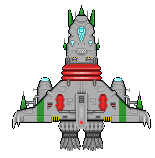
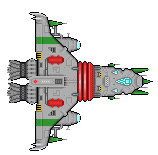
Player ship able to move

diff --git a/src/ofApp.cpp b/src/ofApp.cpp
@@ -5,9 +5,9 @@ void ofApp::setup(){
     // set the size of the window
     ofSetWindowShape(750, 250);
     
-    game_state = START;
-//    player_image.load("ship.png");
-//    player.setup(&player_image);
+    game_state = GAME; //TODO: CHANGE ME BACK TO START
+    player_image.load("ship.png");
+    player.setup(&player_image);
     
     musicDecoder.load("music.mp3");
     currentTrack = new Track(&musicDecoder);
@@ -66,12 +66,8 @@ void ofApp::update(){
     
     for(int i = 0; i < 3; i++){
         if ((d.onsets & (1<<i)) > 0) {
-            ofSetColor(ofColor::red);
             onsetDecay[i] = ((float)(d.onsets & (1<<i)));
-        } else {
-            ofSetColor(255,0,0,onsetDecay[i]*255);
         }
-        ofRect(10,35+13*i,30,10);
     }
 
     // ofDrawBitmapString(Track::toString(d), ofPoint(10,ofGetHeight()-2));
@@ -92,6 +88,7 @@ void ofApp::draw(){
     int wh = ofGetHeight();
         
     // update beat info
+    ofPushStyle();
     ofSetColor(ofColor::black);
     ofDrawBitmapString("Beat", ofPoint(10,10));
 
@@ -140,8 +137,9 @@ void ofApp::draw(){
 
     ofSetColor(ofColor::black);
     ofLine(10, 80, 140, 80);
+    ofPopStyle();
     
-    
+    ofPushStyle();
     switch (game_state) {
         case START:
             break;
@@ -153,6 +151,7 @@ void ofApp::draw(){
         default:
             break;
     }
+    ofPopStyle();
     
 }
 

diff --git a/src/player.cpp b/src/player.cpp
@@ -2,15 +2,37 @@
 #include "player.h"
 
 void Player::setup(ofImage * _img) {
+    pos.x = ofGetWidth() / 10.0;
+    pos.y = ofGetHeight() / 2.0;
     
+    img = _img;
+    
+    width = img->getWidth();
+    height = img->getHeight();
+    speed = 3;
+    lives = 3;
 }
 
 void Player::update() {
+    if (is_left_pressed) {
+        pos.x -= speed;
+    }
     
+    if (is_right_pressed) {
+        pos.x += speed;
+    }
+    
+    if (is_up_pressed) {
+        pos.y -= speed;
+    }
+    
+    if (is_down_pressed) {
+        pos.y += speed;
+    }
 }
 
 void Player::draw() {
-    
+    img->draw(pos);
 }
 
 void Player::shoot() {
@@ -21,6 +43,6 @@ void Player::calculate_movement() {
     
 }
 
-bool Player::check_can_shoot() {
-    return false;
-}
+//bool Player::check_can_shoot() {
+//    return false;
+//}

diff --git a/src/player.h b/src/player.h
@@ -18,7 +18,7 @@ public:
     
     void calculate_movement();
     
-    bool check_can_shoot();
+//    bool check_can_shoot();
     
     ofImage * img;
         
